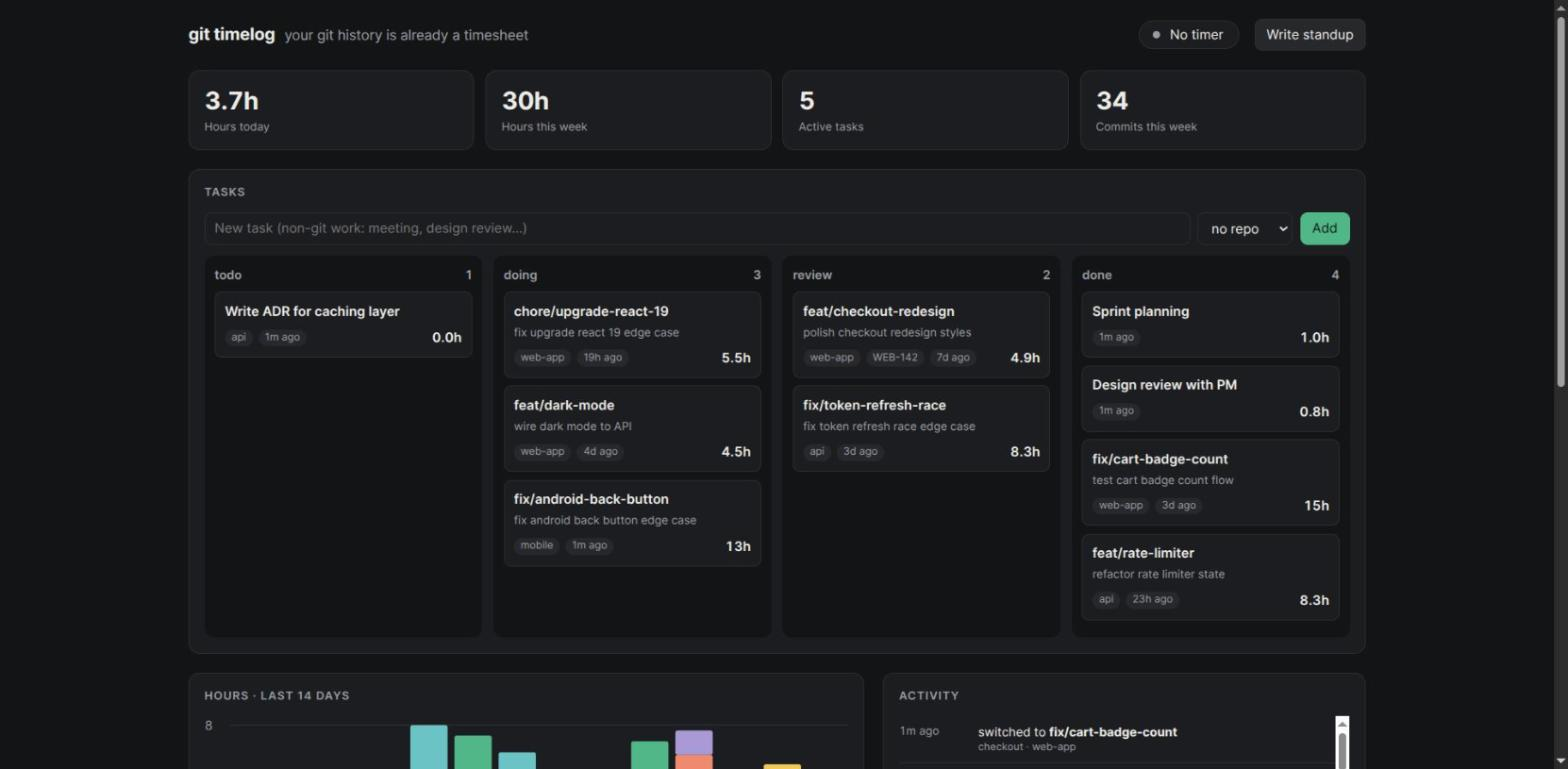
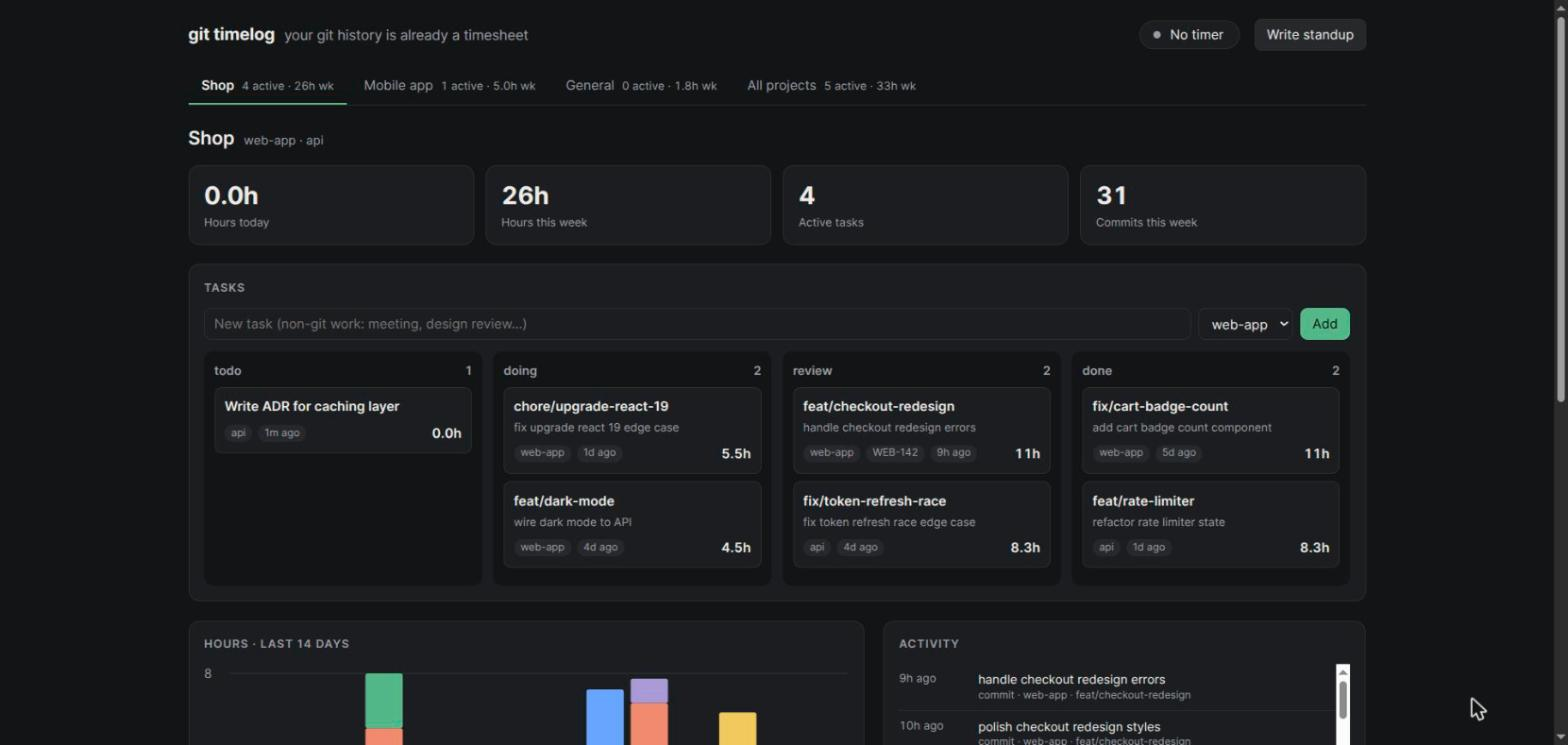
Project tabs, fast-forward merge detection, worktree support
- Dashboard: one tab per project with its own board, totals, chart and
  feed; selection kept in the URL hash and restored on reload. Repos can
  be grouped under one project via a [projects] config section.
- Tasks move to done when their branch is already inside a base branch
  (fast-forward merges leave no merge commit), and plain
  "Merge branch 'x'" subjects are recognised.
- Worktrees of one repo share its name; commits credit the branch they
  were made on.
- Reopening a task (branch switch or manual status) is no longer undone
  by older merges, and imported history no longer reopens shipped tasks.

diff --git a/web/index.html b/web/index.html
@@ -83,6 +83,15 @@ a { color: var(--accent); }
   .grid2 { grid-template-columns: 1fr; }
 }
 @media (max-width: 520px) { .board { grid-template-columns: 1fr; } }
+.tabs { display: flex; gap: 4px; border-bottom: 1px solid var(--line); margin: -4px 0 20px; overflow-x: auto; }
+.tab { background: none; border: 0; border-bottom: 2px solid transparent; border-radius: 0; padding: 10px 14px 9px;
+  color: var(--muted); white-space: nowrap; display: flex; gap: 8px; align-items: baseline; }
+.tab:hover { color: var(--ink); border-color: var(--line); }
+.tab[aria-selected="true"] { color: var(--ink); border-bottom-color: var(--accent); font-weight: 600; }
+.tab .n { font-size: 12px; font-weight: 400; color: var(--muted); font-variant-numeric: tabular-nums; }
+.projhead { display: flex; align-items: baseline; gap: 10px; margin: 0 0 14px; }
+.projhead h2 { font-size: 20px; text-transform: none; letter-spacing: -0.01em; color: var(--ink); margin: 0; }
+.projhead span { color: var(--muted); font-size: 13px; }
 </style>
 </head>
 <body>
@@ -95,13 +104,16 @@ a { color: var(--accent); }
     <button id="reportBtn">Write standup</button>
   </header>
 
+  <nav class="tabs" id="tabs" role="tablist" aria-label="Projects"></nav>
+  <div class="projhead"><h2 id="projName"></h2><span id="projRepos"></span></div>
+
   <section class="kpis" id="kpis"></section>
 
   <section class="panel">
     <h2>Tasks</h2>
     <form class="addrow" id="addForm">
       <input id="addTitle" placeholder="New task (non-git work: meeting, design review…)" required>
-      <select id="addRepo"><option value="">no repo</option></select>
+      <select id="addRepo"></select>
       <button class="primary">Add</button>
     </form>
     <div class="board" id="board"></div>
@@ -120,7 +132,7 @@ a { color: var(--accent); }
   </div>
 
   <section class="panel" style="margin-top:20px">
-    <h2>All tasks</h2>
+    <h2 id="tableTitle">All tasks</h2>
     <div class="tablewrap"><table id="table"></table></div>
   </section>
 </div>
@@ -129,7 +141,10 @@ a { color: var(--accent); }
 <script>
 const STATUSES = ["todo", "doing", "review", "done"];
 const COLORS = Array.from({length: 8}, (_, i) => `var(--c${i})`);
-let data = null;
+let data = null;   // full summary from the server
+let view = null;   // the selected project's slice of it
+let project = null;
+const ALL = "All projects";
 const $ = (id) => document.getElementById(id);
 const esc = (s) => String(s ?? "").replace(/[&<>"']/g, c => ({"&":"&amp;","<":"&lt;",">":"&gt;",'"':"&quot;","'":"&#39;"}[c]));
 const ago = (ts) => {
@@ -148,15 +163,53 @@ async function api(path, method = "GET", body) {
 }
 function toast(msg) { const t = $("toast"); t.textContent = msg; t.classList.add("show"); setTimeout(() => t.classList.remove("show"), 2200); }
 
-async function load() {
-  data = await api("/api/summary");
-  const sel = $("addRepo"), keep = sel.value;
-  sel.innerHTML = '<option value="">no repo</option>' + data.repos.map(r => `<option>${esc(r)}</option>`).join("");
-  sel.value = keep;
+async function load() { data = await api("/api/summary"); pickProject(); render(); }
+
+// The selected project comes from the URL (#name, bookmarkable), then the last one used.
+function pickProject() {
+  const names = data.projects.map(p => p.name).concat(ALL);
+  let want = decodeURIComponent(location.hash.slice(1));
+  if (!names.includes(want)) { try { want = localStorage.getItem("git-timelog.project"); } catch (e) { want = null; } }
+  project = names.includes(want) ? want : names[0];
+}
+
+function setProject(name) {
+  project = name;
+  try { localStorage.setItem("git-timelog.project", name); } catch (e) {}
+  history.replaceState(null, "", "#" + encodeURIComponent(name));
   render();
 }
 
+function slice() {
+  if (project === ALL || !data.projects.length) return data;
+  const p = data.projects.find(x => x.name === project);
+  const tasks = data.tasks.filter(t => t.project === project);
+  const ids = new Set(tasks.map(t => String(t.id)));
+  return {
+    ...data, kpi: p.kpi, repos: p.repos, tasks,
+    days: data.days.map(d => ({date: d.date, tasks: Object.fromEntries(Object.entries(d.tasks).filter(([id]) => ids.has(id)))})),
+    activity: data.activity.filter(e => e.project === project),
+  };
+}
+
+function renderTabs() {
+  const tabs = data.projects.map(p => ({name: p.name, kpi: p.kpi})).concat([{name: ALL, kpi: data.kpi}]);
+  $("tabs").innerHTML = tabs.map(t => `<button class="tab" role="tab" aria-selected="${t.name === project}" data-p="${esc(t.name)}">
+    ${esc(t.name)}<span class="n">${t.kpi.active} active · ${fmtH(t.kpi.week)} wk</span></button>`).join("");
+  $("tabs").querySelectorAll(".tab").forEach(b => b.onclick = () => setProject(b.dataset.p));
+  $("projName").textContent = project;
+  $("projRepos").textContent = view.repos.length === 1 && view.repos[0] === project ? "" : view.repos.join(" · ");
+  $("tableTitle").textContent = project === ALL ? "All tasks" : `All ${project} tasks`;
+  const sel = $("addRepo"), keep = sel.value;
+  sel.innerHTML = view.repos.map(r => `<option>${esc(r)}</option>`).join("") + '<option value="">no repo</option>';
+  if (view.repos.includes(keep)) sel.value = keep;
+  document.title = `${data.title} · ${project}`;
+}
+
 function render() {
+  view = slice();
+  renderTabs();
+  const data = view;
   const k = data.kpi;
   $("kpis").innerHTML = [
     [fmtH(k.today), "Hours today"], [fmtH(k.week), "Hours this week"],
@@ -200,7 +253,7 @@ function render() {
   $("legend").innerHTML = data.tasks.filter(t => used.has(t.id)).sort((a, b) => chartHours[b.id] - chartHours[a.id]).slice(0, 8)
     .map(t => `<span><i style="background:${colorOf[t.id]}"></i>${esc(t.title)}</span>`).join("");
 
-  $("feed").innerHTML = data.activity.map(e => `<li><time>${ago(e.ts)}</time><div>
+  $("feed").innerHTML = data.activity.slice(0, 40).map(e => `<li><time>${ago(e.ts)}</time><div>
     <div>${e.kind === "checkout" ? "switched to <b>" + esc(e.branch) + "</b>" : esc(e.subject)}</div>
     <div class="k">${esc(e.kind)} · ${esc(e.repo)}${e.kind !== "checkout" ? " · " + esc(e.branch) : ""}</div></div></li>`).join("")
     || "<li>No activity yet. Run <code>git timelog init</code> in a repo, then commit.</li>";

diff --git a/tests/test_cli.py b/tests/test_cli.py
@@ -89,6 +89,42 @@ class CliTest(unittest.TestCase):
         tasks = {t["branch"]: t for t in self.summary()["tasks"]}
         self.assertEqual(tasks["fix/typo"]["status"], "doing")
 
+    def test_fast_forward_merge_marks_task_done(self):
+        self.tl("init", "--days", "0")
+        self.git("checkout", "-q", "-b", "feat/ff")
+        self.commit("small change")
+        self.git("checkout", "-q", "main")
+        self.git("merge", "-q", "--ff-only", "feat/ff")  # no merge commit at all
+        tasks = {t["branch"]: t for t in self.summary()["tasks"]}
+        self.assertEqual(tasks["feat/ff"]["status"], "done")
+
+    def test_fresh_branch_is_not_mistaken_for_merged(self):
+        self.tl("init", "--days", "0")
+        self.git("checkout", "-q", "-b", "feat/new")  # sits inside main, but no commits yet
+        tasks = {t["branch"]: t for t in self.summary()["tasks"]}
+        self.assertEqual(tasks["feat/new"]["status"], "doing")
+
+    def test_worktrees_share_the_main_repo_name(self):
+        self.tl("init", "--days", "0")
+        wt = Path(self.tmp.name) / "shop-web-feature"
+        self.git("worktree", "add", "-q", "-b", "feat/wt", str(wt))
+        subprocess.run(["git", "commit", "-q", "--allow-empty", "-m", "work in worktree"], cwd=wt,
+                       env=self.env, check=True)
+        tasks = {t["branch"]: t for t in self.summary()["tasks"]}
+        self.assertEqual(tasks["feat/wt"]["repo"], "shop-web")
+        self.assertEqual(tasks["feat/wt"]["commits"], 1)
+
+    def test_projects_group_repos(self):
+        Path(self.env["GIT_TIMELOG_CONFIG"]).write_text("[projects]\nShop = shop-web, shop-api\n")
+        self.tl("init", "--days", "0")
+        self.git("checkout", "-q", "-b", "feat/cart")
+        self.commit("cart")
+        s = self.summary()
+        shop = next(p for p in s["projects"] if p["name"] == "Shop")
+        self.assertEqual(shop["repos"], ["shop-web", "shop-api"])
+        self.assertEqual(shop["kpi"]["commits_week"], 1)
+        self.assertEqual(next(t for t in s["tasks"] if t["branch"] == "feat/cart")["project"], "Shop")
+
     def test_manual_task_and_log(self):
         self.tl("init", "--days", "0")
         self.tl("add", "Sprint planning")

diff --git a/README.md b/README.md
@@ -6,7 +6,7 @@
 every checkout and commit becomes a data point, and a local dashboard shows where your
 hours went. No account, no cloud, no browser extension, no Electron app.
 
-![Dashboard: task board with hours per branch](docs/dashboard.jpg)
+![Dashboard: project tabs, task board with hours per branch](docs/dashboard.jpg)
 
 ![Hours per day and activity feed](docs/chart.jpg)
 
@@ -18,17 +18,19 @@ Developers already leave a precise trail of what they worked on and when: it's c
 
 - **Zero effort.** Git hooks record branch switches, commits and merges as they happen.
 - **Branches are tasks.** `feat/login` shows up on the board the first time you touch it.
-  When a PR is merged (GitHub, GitLab or Bitbucket merge commits), the task moves to *done*.
+  When it's merged (merge commit or fast-forward), the task moves to *done*.
+- **One dashboard, many projects.** Each project gets its own tab with its own board,
+  totals, chart and activity feed. Group several repos into one project if you like.
 - **Private.** Everything stays in a SQLite file on your machine.
 - **Tiny.** One Python file, standard library only. Nothing to `pip install`.
 - **No background process.** On Linux, systemd holds the port and starts the dashboard
-  only when you open it; it exits after 10 idle minutes. Hooks add ~1 ms to a git command.
+  only when you open it; it exits after 10 idle minutes.
 - **Daily standup notes.** A Markdown note per day (Obsidian-friendly) with what you committed,
   hours per task and what's in progress.
 
 ## Install
 
-Requires `git` and `python3` (3.8+). Linux with systemd gets the on-demand dashboard and the
+Requires `git` (2.31+) and `python3` (3.8+). Linux with systemd gets the on-demand dashboard and the
 scheduled standup note; macOS and others run the dashboard with `git timelog serve`.
 
 ```sh
@@ -64,15 +66,61 @@ git timelog repos | remove             # list or stop tracking repos
 On the dashboard you can drag cards between columns, start timers, log time and attach a
 ticket or PR link.
 
+## Projects and tabs
+
+Every tracked repo is a project, and every project gets a tab at the top of the dashboard.
+The tab shows its active task count and hours this week; the selected tab shows only that
+project's board, totals, 14-day chart, activity feed and task table. **All projects** shows
+everything together.
+
+- **Switching:** click a tab. The choice is kept in the URL, so `http://localhost:7777/#Shop`
+  opens straight on the Shop project (bookmark one per project), and the dashboard reopens on
+  the last tab you used.
+- **Grouping repos:** to put several repos under one tab (frontend + backend, say), list them
+  in the `[projects]` section of the config. Names are the repo folder names:
+
+  ```ini
+  [projects]
+  Shop = web-app, api
+  Mobile app = mobile
+  ```
+
+  Repos not listed get a tab of their own. Tasks you add without a repo appear under **General**.
+- **Adding a task** from a tab offers that project's repos in the dropdown.
+
+## How a task moves between columns
+
+| Happens | Status |
+|---|---|
+| First checkout or commit on a new branch | **doing** |
+| A merge commit names the branch (`Merge pull request #12 from you/feat-x`, `Merged in feat-x (pull request #12)`, `Merge branch 'feat-x'`) | **done** |
+| The branch is already contained in a base branch such as `main` (fast-forward merge, no merge commit) and you committed on it | **done** |
+| No activity for `stale_days` (7) when importing history | **done** |
+| You switch back to, or commit on, a done branch | **doing** again |
+| You drag the card or run `git timelog status` | whatever you chose; older merges never override it |
+
+A branch you only created (no commits of your own yet) is never treated as merged, even
+though it sits inside `main`. Merge detection runs whenever new events arrive and at most
+every 5 minutes while the dashboard is open.
+
+## Worktrees
+
+`git worktree` checkouts count as the same repo: tasks from `~/code/shop` and
+`~/code/shop-feature-x` are both filed under `shop`. Hooks live in the shared `.git`
+folder, so one `git timelog init` covers every worktree. Run `init` inside each extra
+worktree too if you want its branch-switch history imported.
+
 ## How time is estimated
 
-Events are walked in time order. The gap between two events is credited to the branch that
-was checked out during it, as long as the gap is under 2 hours. After a longer gap a new
+Events are walked in time order. The gap between two events is credited to the branch you
+were on: for a commit, the branch it was made on; for a branch switch, the branch you were
+leaving. Only gaps under 2 hours count. After a longer gap a new
 session starts, and its first commit gets a 30 minute lead-in. This is the same idea as
 [git-hours](https://github.com/kimmobrunfeldt/git-hours), applied to checkouts as well as
 commits.
 
-It's an estimate: long stretches of uncommitted work are undercounted. Use `git timelog log`
+It's an estimate. Long stretches of uncommitted work are undercounted, and a meeting in the
+middle of a branch is counted as work on it. Use `git timelog log`
 or the timer to correct it. Manual time is added on top of git time.
 
 ## Configuration
@@ -90,6 +138,9 @@ idle_exit_min = 10
 port = 7777                    ; re-run install.sh with PORT=... to change the socket
 standup_dir = ~/Documents/git-timelog/standups
 title = git timelog
+
+[projects]                     ; optional: group repos under one tab
+Shop = web-app, api
 ```
 
 Point `standup_dir` into your Obsidian vault to get notes there.
